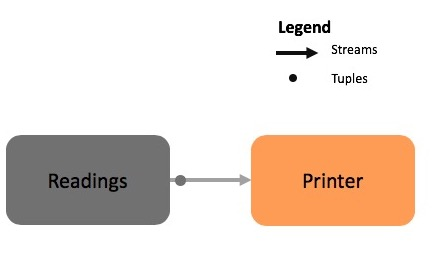
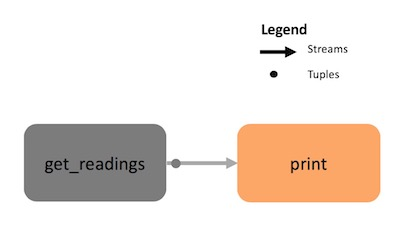
add examples for reading from file

diff --git a/docs/python/1.6/python-appapi-devguide-4.md b/docs/python/1.6/python-appapi-devguide-4.md
@@ -19,8 +19,8 @@ This section will discuss how to use the most common functions and transforms in
 * [Creating a data source](#source)
   - [Ingesting data from popular systems](#adapters)
   - [Examples](#examples)
+  - [Working with files](#files)
 * [Viewing the contents of a `Stream`](#views)
-* [Using data from a file](#file)
 * [Creating data sinks](#sink)
 * [Filtering data from the stream](#filter)
 * [Transforming data with custom logic](#map)
@@ -29,32 +29,32 @@ This section will discuss how to use the most common functions and transforms in
 * [Joining streams](#union)
 * [Sharing data between Streams applications](#publish)
 
-Find detailed information about IBM Streams transforms in the documentation for the [Stream class](https://streamsxtopology.readthedocs.io/en/stable/streamsx.topology.topology.html#streamsx.topology.topology.Stream).
+Find detailed information about all available transforms in the documentation for the [Stream class](https://streamsxtopology.readthedocs.io/en/stable/streamsx.topology.topology.html#streamsx.topology.topology.Stream).
 
 <a id="intro"></a>
 
 # Introduction
 
-Streams applications are directed graphs of data. The start of the graph is a data source that produces a source `Stream`, which is processed and analyzed using various transforms, ultimately getting sent to a data sink such as a database or file.
+Streams applications are directed graphs of data. The start of the graph is a data source that produces a source [`Stream`](https://streamsxtopology.readthedocs.io/en/stable/streamsx.topology.topology.html#streamsx.topology.topology.Stream), which is processed and analyzed using various transforms, ultimately getting sent to a data sink such as a database or file.
 
 ![streams graph animation](/streamsx.documentation/images/python/streams-graph.gif)
 
 As shown above,
-- The data source produces a source `Stream`. In the Python API this `Stream` is always created by calling `Topology.source()` or `Topology.subscribe()`.
-- The source `Stream` of data is processed by one or more transforms. A transform could be computing the average of the data on a Stream, or filtering out bad data, and so on.
-- Each transform produces another `Stream` as output, which is then forwarded to the next transform.  
-- Finally, the result is sent to a data sink to be saved in an external system.
+1. The data source is a Python class or function that will produce the data to be analyzed. It could be data from Kafka, a file, database, etc.  That data is converted to a `Stream` object called the source `Stream`.
+2. The source `Stream` is processed by one or more transforms. A transform could be computing the average of the data on a `Stream`, or filtering out bad data, and so on.
+3. Each transform produces another `Stream` as output, which is then forwarded to the next transform.  
+4. The last `Stream`, containing the results, is sent to a data sink, another function that will save the data to an external system.
 
-In the previous section, you created a very simple application that created a `Stream` of random numbers and printed the streaming data:
+In the previous section, you created a very simple application that created a `Stream` of random numbers and printed it:
 
 ~~~~ python
-def readings():
+def get_readings():
     while True:
         yield {"id": "sensor_1", "value": random.gauss(0.0, 1.0)}
 
 topo = Topology("temperature_sensor")
-source = topo.source(readings, name="Readings")
-source.for_each(print, name="Printer")
+src = topo.source(get_readings) # create a source Stream
+src.for_each(print) # print the data on the stream
 streamsx.topology.context.submit("DISTRIBUTED", topo)
 ~~~~    
 
@@ -65,15 +65,26 @@ Sample output:
 ...
 ~~~~~~
 
-The application above would have the following graph:
+The code above defines a `Topology`, or application with the following graph:
 
 ![sample app](/streamsx.documentation/images/python/basic.jpg)
 
+Here, the `get_readings` function produces the data that will be analyzed. The `src` `Stream` contains the data produced by `get_readings`.
 
-You might notice that there are no transforms in this sample. This section will cover common scenarios and best practices.
+The source `Stream` is created by calling `Topology.source()` .
+
+In this example, there are no real transforms on the `src` `Stream`. The rest of this section will cover common transforms and best practices.
+
+### A note about execution
+The Python API is used to _create_ an application that can be executed on the Streams runtime.  The last line, which calls `submit`, is what triggers the compilation and execution of the application.
+
+This means that callables such as the `get_readings` function are not invoked when the code above is run, but rather, when the created application is executed on the Streams runtime.
+
+This is important to remember because the host where the application is created is often not the same host where it will be executed, i.e. where Streams is installed. For example, if the `get_readings` function opens a file, that file must actually exist on the host where Streams is running. See [working with files](#files) for an example.
 
 
 <a id="source"></a>
+
 <br/>
 ## 4.1 Creating data sources
 
@@ -102,7 +113,7 @@ If you want to process data from one of the following systems, you can use the c
 
 | Application/System        | Package          |
 | ------------- | ------------- |
-| CSV File on local file system      | [streamsx.standard](https://streamsxstandard.readthedocs.io/en/latest/) (see streamsx.standard.files) |
+| CSV File on local file system      | Python standard libraries, see the [working with files section below](#files) |
 | Hadoop File System (HDFS)    | [streamsx.hdfs](https://streamsxhdfs.readthedocs.io/en/latest/)      |
 | Kafka | [streamsx.kafka](https://streamsxkafka.readthedocs.io/en/latest/)      |
 | IBM Event Streams | [streamsx.eventstreams](https://streamsxeventstreams.readthedocs.io/en/1.0.0/)      |
@@ -124,7 +135,7 @@ The callable passed to `Topology.source()` must:
 
 ### How it works
 
-* When the application starts running, the callable is invoked and it returns an iterable.  The runtime then iterates through the available data by repeatedly calling [__next__](https://docs.python.org/3/library/stdtypes.html#iterator.__next__) on the iterable. Each returned item that is not `None` is submitted as a tuple for downstream processing.
+* When the Streams runtime begins running your application, the callable, (e.g. the `get_readings` function) is invoked and it returns an iterable. The runtime then iterates through the available data by repeatedly calling [__next__](https://docs.python.org/3/library/stdtypes.html#iterator.__next__) on the iterable. Each returned item that is not `None` is submitted as a tuple for downstream processing.
 * When or if the iterator throws a `StopException`, no more tuples appear on the source stream.
 
 <a id="examples"></a>
@@ -232,19 +243,18 @@ class WikipediaReader(object):
 ~~~~~
 
 ### Advantages of using a callable class
-When you compare the two examples above, you'll notice that the `__call__` function is very similar to the `wikipedia_edit` function, yet the `WikipediaReader` class also has `__enter__` and `__exit__` functions.
+When you compare the two examples above, you'll notice that although `WikipediaReader.__call__` is similar to the `wikipedia_stream` function, the `WikipediaReader` class also has `__enter__` and `__exit__` functions.
 
 - The `__enter__` function is called by the Streams runtime whenever the process executing your application is started or restarted.  This allows you to perform any necessary initialization, such as creating a connection to a database. In our example we initialized the `SSEClient` object. You could also define metrics, or, in the case of a restart due to system outage, restore any previously saved state.
 
-- Similarly, the `__exit__` function allows you to handle exceptions and also perform any cleanup when the process is shutting down.
+- Similarly, the `__exit__` function allows you to handle exceptions that occurred in the `__call__` function, and also perform any cleanup when the process is shutting down.
 
 Note that  `__enter__`  is invoked at a different time from the constructor, `__init__`.  The class constructor is called when the `Topology` is declared. This is when the Streams application is being created and _before_ it is compiled.  The  `__enter__` function is called after the application has been successfully compiled and is being executed within the Streams runtime.
 
 
+### 4.1.1 Simple Iterable sources: Lists
 
-### 4.1.1 Simple Iterable sources: Files, Lists
-
-Used when you have a finite set of data to analyze, e.g. a list or a set of files. The iterable is returned directly by the function passed to source().
+Used when you have a finite set of data to analyze, e.g. a list. The iterable is returned directly by the function passed to `Topology.source()`.
 
 ~~~~ python
 # Open a tar file and return list of file names
@@ -255,6 +265,101 @@ def get_log_files():
         file_names =  tar_file.getnames()
     return file_names
 ~~~~
+
+**Note**: In the above example, the `logs.tar.gz` file must be present on the host where Streams is installed. See below for instructions on how to use local files in your Streams application.
+
+<a id="files"></a>
+## Working with files
+
+Reading from a file or using a file within your Streams application can be done using any of the built-in file handling functions in Python.
+
+However, you must use `Topology.add_file_dependency` to ensure that the file or its containing directory will be available at runtime.
+
+~~~ python
+topo = Topology("ReadFromFile")
+topo.add_file_dependency("/home/streamsadmin/hostdir/mydata.txt" , "etc")
+~~~
+
+This will place the file within the `etc` folder of the application bundle.
+
+At runtime, the full path to `mydata.txt` will be:
+
+~~~ python
+streamsx.ec.get_application_directory() + "/etc/mydata.txt`
+~~~
+
+Below are some complete examples.
+
+
+### Using data from a file as your data source
+
+This is a basic example of reading a file line by line:
+~~~ python
+import streamsx.ec
+
+class FileReader:
+    def __init__(self, file_name):
+        self.file_name = file_name            
+    def __call__(self):
+        # iterate over file contents
+        with open(streamsx.ec.get_application_directory()
+                       + "/etc/" +  self.file_name) as handle:
+            for line in handle:
+                yield line.strip()
+
+
+file_name = "mydata.txt"
+topo = Topology("ReadFromFile")
+topo.add_file_dependency("/home/streamsadmin/hostdir/" + file_name , "etc")
+lines_from_file = topo.source(FileReader(file_name))
+lines_from_file.print()
+
+~~~
+
+The `FileReader` class uses `streamsx.ec.get_application_directory() ` to retrieve the path to the file on the Streams host, and then returns the file's contents one line at a time.
+
+**CSV Files**
+
+The `FileReader` class can easily be extended to read CSV data.  For example, if your CSV file had the following format:
+```
+timestamp,max,id,min
+1551729580087,18,"8756",8
+1551729396809,0,"6729",0
+1551729422809,25,"6508",5
+```
+
+You could define a new class to read each line into a `Stream` of `dicts` as follows:
+~~~ python
+
+class CSVFileReader:
+    def __init__(self, file_name):
+        self.file_name = file_name
+    def __call__(self):
+        # Convert each row in the file to a dict
+        header = ["timestamp","max", "id", "min"]
+        with open(streamsx.ec.get_application_directory()
+               + "/etc/" +  self.file_name) as handle:
+            reader = csv.DictReader(handle, delimiter=',',
+                                    fieldnames=header)
+            #Use this to skip the header line if your file has one
+            next(reader)
+            for row in reader:
+                yield row
+
+topo = Topology(name="CSVFileReader")
+topo.add_file_dependency("path/on/local/fs/mydata.txt" , "etc")
+lines = topo.source(CSVFileReader("mydata.txt"))
+lines.filter(lambda tpl: int(tpl["min"]) >= 5).print()  
+
+~~~~
+
+Sample output:
+
+~~~~ python
+{'min': '18', 'id': '8756', 'max': '26', 'timestamp': '1551729580087'}
+{'min': '5', 'id': '6508', 'max': '25', 'timestamp': '1551729422809'}
+~~~~
+
 
 ### 4.1.2 Itertools
 
@@ -282,6 +387,10 @@ import itertools
 def repeat_sequence():
     return itertools.repeat("A")
 ````
+
+### Reference
+* [Topology.source](https://streamsxtopology.readthedocs.io/en/stable/streamsx.topology.topology.html#streamsx.topology.topology.Topology.source)
+* [Topology.add_file_dependency](https://streamsxtopology.readthedocs.io/en/stable/streamsx.topology.topology.html#streamsx.topology.topology.Topology.add_file_dependency)
 
 
 <a id="filter"></a>
